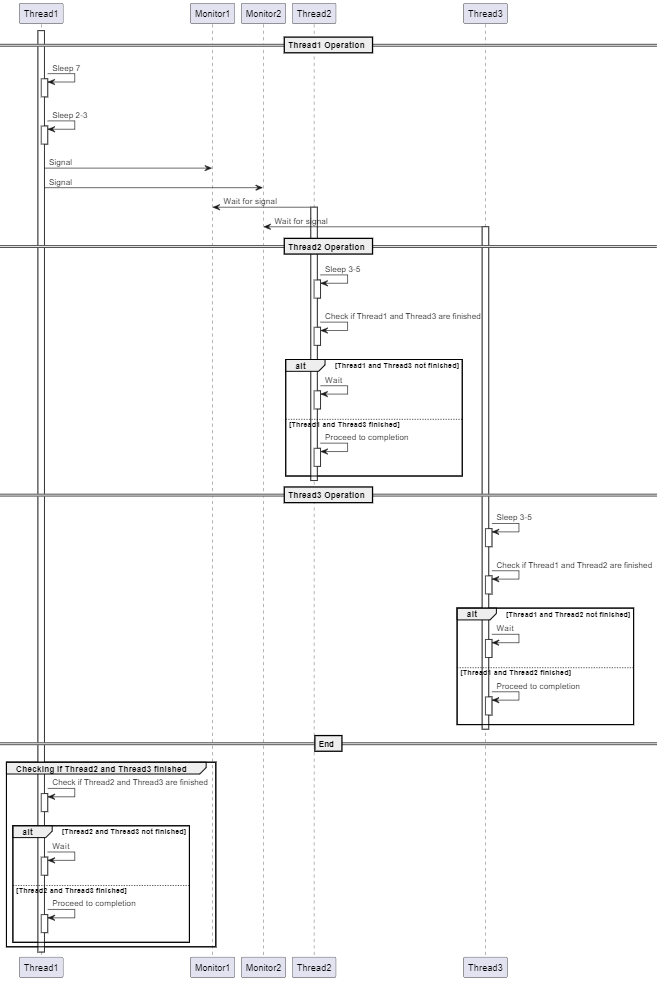
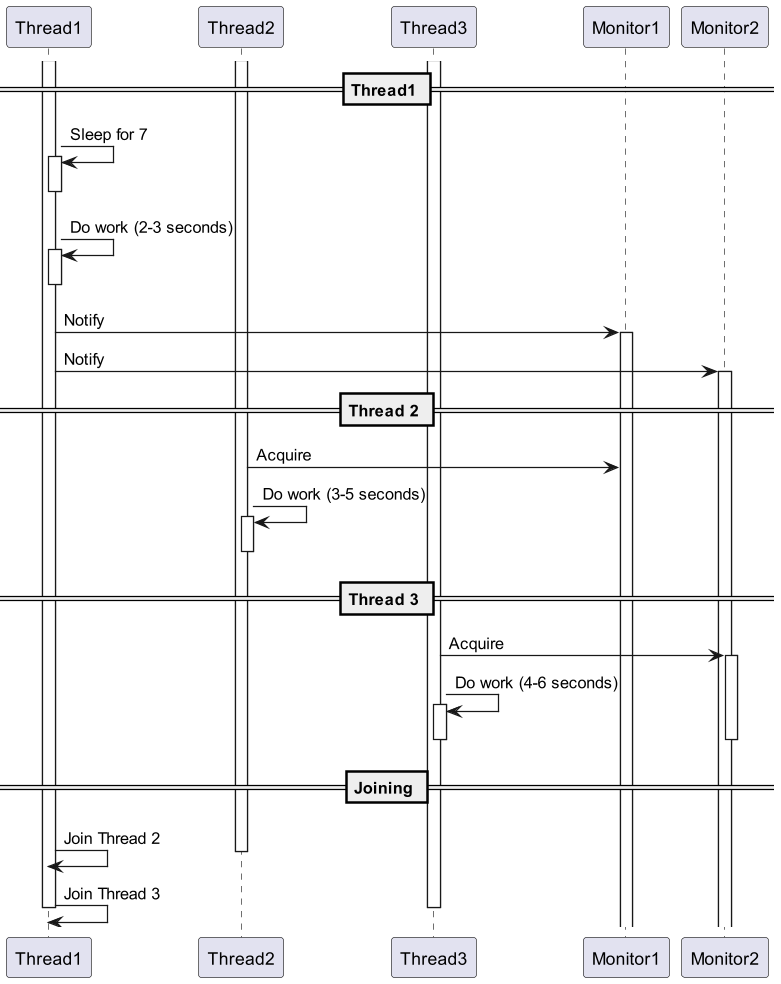
corrected lab4 diagrams

Changed region(s): [[0.0, 0.0, 0.9985, 1.0], [0.9077, 0.2446, 0.938, 0.2752], [0.7867, 0.2446, 0.8169, 0.2752]]

diff --git a/Lab4/src/Ex4/ExecutionThread.java b/Lab4/src/Ex4/ExecutionThread.java
@@ -13,21 +13,22 @@ public class ExecutionThread extends Thread{
     public void run(){
 
         while(true){
+            System.out.println(this.getName() + " - STATE 1");
             synchronized (monitor){
-                System.out.println(this.getName() + " - STATE 1");
-                try {
-                    Thread.sleep(Math.round(Math.random() * (times[1] - times[0]) + times[0]) * 1000);
-                } catch (InterruptedException e) {
-                    e.printStackTrace();
+                System.out.println(this.getName() + " - STATE 2");
+                int k = (int) Math.round(Math.random() * (times[1] - times[0]) + times[0]);
+                for (int i = 0; i < k * 100000; i++) {
+                    i++;
+                    i--;
                 }
             }
-            System.out.println(this.getName() + " - STATE 2");
+            System.out.println(this.getName() + " - STATE 3");
             try {
                 Thread.sleep((long)times[2] * 1000);
             } catch (InterruptedException e) {
                 e.printStackTrace();
             }
-            System.out.println(this.getName() + " - STATE 3");
+            System.out.println(this.getName() + " - STATE 4");
         }
 
     }

diff --git a/Lab4/src/Ex3/ExecutionThread.java b/Lab4/src/Ex3/ExecutionThread.java
@@ -15,18 +15,19 @@ public class ExecutionThread extends Thread{
 
     public void run(){
         System.out.println(this.getName() + " - STATE 1");
-        try {
-            Thread.sleep(Math.round(Math.random() * (times[1] - times[0]) + times[0]) * 1000);
-        } catch (InterruptedException e) {
-            e.printStackTrace();
+        int k = (int) Math.round(Math.random() * (times[1] - times[0]) + times[0]);
+        for (int i = 0; i < k * 100000; i++) {
+            i++;
+            i--;
         }
-        System.out.println(this.getName() + " - STATE 2");
+
         synchronized (monitor) {
             synchronized (monitorSh){
-                try {
-                    Thread.sleep(Math.round(Math.random() * (times[3] - times[2]) + times[2]) * 1000);
-                } catch (InterruptedException e) {
-                    e.printStackTrace();
+                System.out.println(this.getName() + " - STATE 2");
+                k = (int) Math.round(Math.random() * (times[3] - times[2]) + times[2]);
+                for (int i = 0; i < k * 100000; i++) {
+                    i++;
+                    i--;
                 }
             }
             System.out.println(this.getName() + " - STATE 3");

diff --git a/Lab4/src/Ex5/ExecutionThread2.java b/Lab4/src/Ex5/ExecutionThread2.java
@@ -3,9 +3,11 @@ package Ex5;
 public class ExecutionThread2 extends Thread {
     int[] times;
     final Integer lock;
-    public ExecutionThread2(Integer lock, int[] times){
+    Thread t1;
+    public ExecutionThread2(Integer lock, Thread t1, int[] times){
         this.times = times;
         this.lock = lock;
+        this.t1 = t1;
     }
     public void run() {
         System.out.println(this.getName() + " - STATE 1");
@@ -18,12 +20,19 @@ public class ExecutionThread2 extends Thread {
         }
 
         System.out.println(this.getName() + " - STATE 2");
-        try {
-            Thread.sleep(Math.round(Math.random() * (times[1] - times[0]) + times[0]) * 1000);
-        } catch (InterruptedException e) {
-            e.printStackTrace();
+        int k = (int) Math.round(Math.random() * (times[1] - times[0]) + times[0]);
+        for (int i = 0; i < k * 100000; i++) {
+            i++;
+            i--;
         }
 
         System.out.println(this.getName() + " - STATE 3");
+        if(t1 != null) {
+            try {
+                t1.join();
+            } catch (InterruptedException e) {
+                throw new RuntimeException(e);
+            }
+        }
     }
 }

diff --git a/Lab4/src/Ex2/ExecutionThread1.java b/Lab4/src/Ex2/ExecutionThread1.java
@@ -17,13 +17,17 @@ public class ExecutionThread1 extends Thread {
 
     public void run() {
         System.out.println(this.getName() + " - STATE 1");
-        try {
-            Thread.sleep(Math.round(Math.random() * (sleep_max - sleep_min) + sleep_min) * 500);
-        } catch (InterruptedException e) {
-            e.printStackTrace();
-        }
-        System.out.println(this.getName() + " - STATE 2");
+
+
         synchronized (monitor) {
+            System.out.println(this.getName() + " - STATE 2");
+
+            int k = (int) Math.round(Math.random() * (sleep_max - sleep_min) + sleep_min);
+            for (int i = 0; i < k * 100000; i++) {
+                i++;
+                i--;
+            }
+
             System.out.println(this.getName() + " - STATE 3");
             try {
                 Thread.sleep((long)activity*1000);

diff --git a/Lab4/src/Ex5/Main.java b/Lab4/src/Ex5/Main.java
@@ -12,21 +12,12 @@ public class Main {
 
         // test comment to see that repo is ok
         ExecutionThread1 thread1 = new ExecutionThread1(lock1, lock2, t1);
-        ExecutionThread2 thread2 = new ExecutionThread2(lock1, t2);
-        ExecutionThread2 thread3 = new ExecutionThread2(lock2, t3);
+        ExecutionThread2 thread2 = new ExecutionThread2(lock1, thread1, t2);
+        ExecutionThread2 thread3 = new ExecutionThread2(lock2, thread1, t3);
 
         thread1.start();
         thread2.start();
         thread3.start();
-
-        try{
-            thread1.join();
-            thread2.join();
-            thread3.join();
-        }
-        catch (InterruptedException e){
-            e.printStackTrace();
-        }
 
     }
 }

diff --git a/Lab4/src/Ex2/ExecutionThread2.java b/Lab4/src/Ex2/ExecutionThread2.java
@@ -18,10 +18,10 @@ public class ExecutionThread2 extends Thread {
 
     public void run() {
         System.out.println(this.getName() + " 2sync - STATE 1");
-        try {
-            Thread.sleep(Math.round(Math.random() * (sleep_max - sleep_min) + sleep_min) * 500);
-        } catch (InterruptedException e) {
-            e.printStackTrace();
+        int k = (int) Math.round(Math.random() * (sleep_max - sleep_min) + sleep_min);
+        for (int i = 0; i < k * 100000; i++) {
+            i++;
+            i--;
         }
         System.out.println(this.getName() + " 2sync - STATE 2");
         synchronized(monitor1) {

diff --git a/Lab4/src/Ex5/ExecutionThread1.java b/Lab4/src/Ex5/ExecutionThread1.java
@@ -19,10 +19,10 @@ public class ExecutionThread1 extends Thread {
         }
 
         System.out.println(this.getName() + " - STATE 2");
-        try {
-            Thread.sleep(Math.round(Math.random() * (times[2] - times[1]) + times[1]) * 1000);
-        } catch (InterruptedException e) {
-            e.printStackTrace();
+        int k = (int) Math.round(Math.random() * (times[2] - times[1]) + times[1]);
+        for (int i = 0; i < k * 100000; i++) {
+            i++;
+            i--;
         }
         synchronized (lock1) {
             lock1.notify();

diff --git a/Lab5/src/App2/Fir.java b/Lab5/src/App2/Fir.java
@@ -1,0 +1,2 @@
+package App2;public class Fir {
+}
